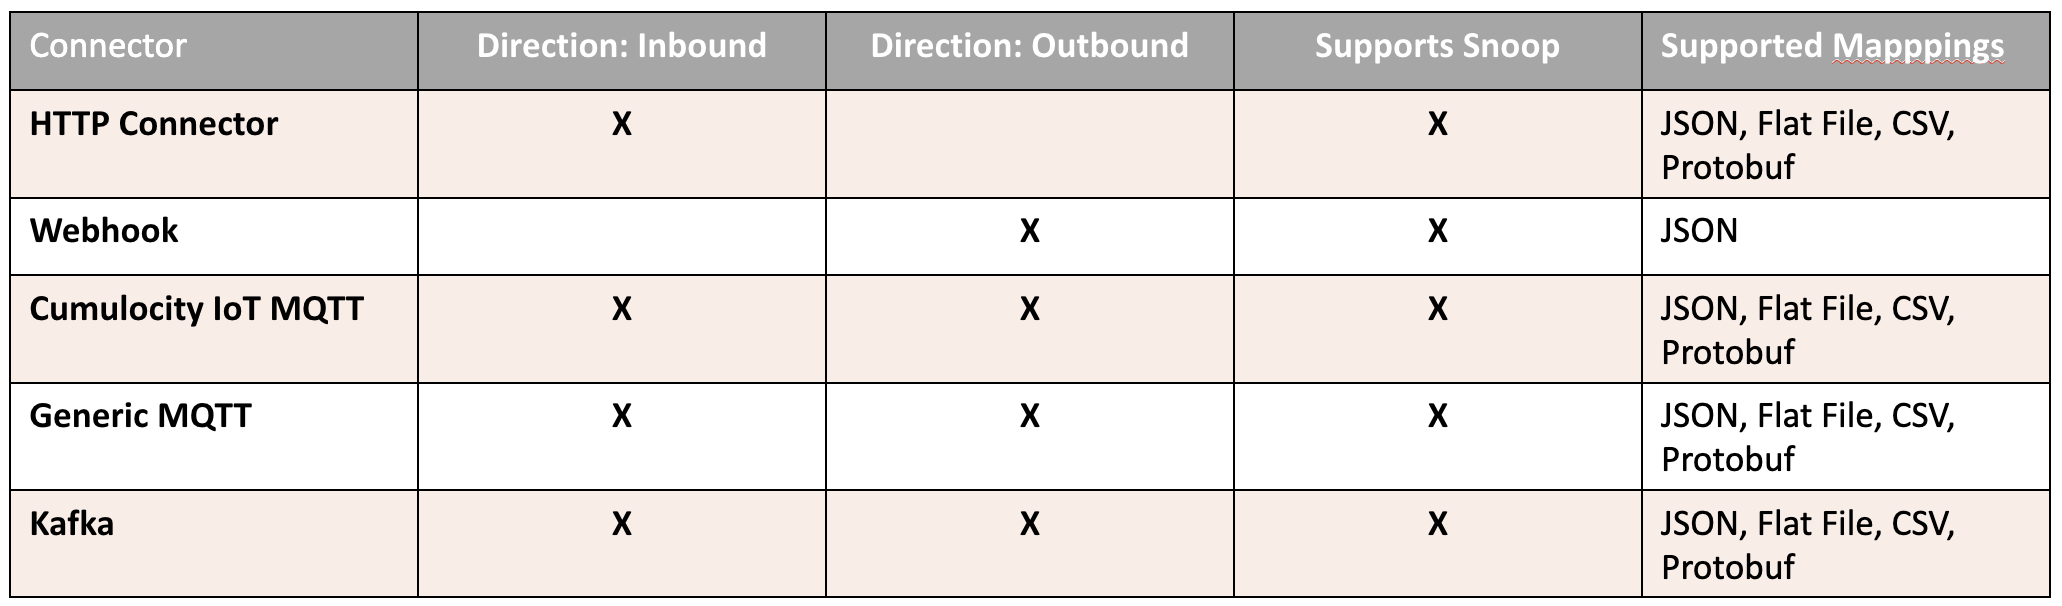
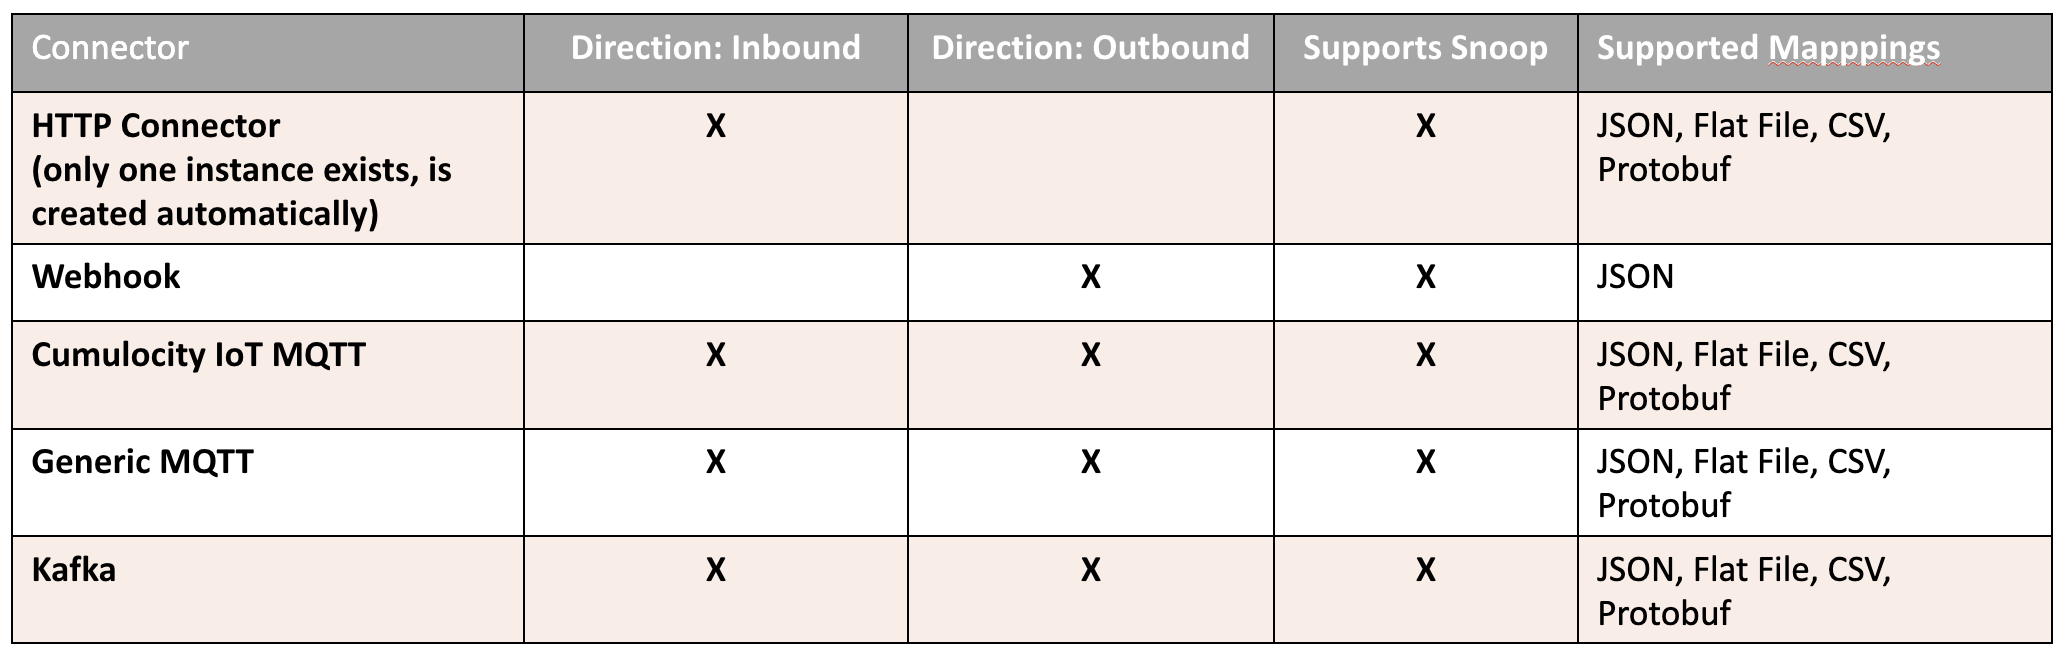
updated userdocs

diff --git a/dynamic-mapping-service/src/main/java/dynamic/mapping/connector/webhook/WebHook.java b/dynamic-mapping-service/src/main/java/dynamic/mapping/connector/webhook/WebHook.java
@@ -90,7 +90,7 @@ public class WebHook extends AConnectorClient {
         configProps.put("baseUrlHealthEndpoint",
                 new ConnectorProperty("health endpoint for GET request", false, 6, ConnectorPropertyType.STRING_PROPERTY, false, false, null, null, null));
         String name = "Webhook";
-        String description = "Webhook to send outbound messages to Rest endpoint as POST in json format. The publishTopic is appended to the Rest endpoint. In case the endpoint does not end with a trailing / and the publishTopic is not start with a / it is automatically added. The health endpoint is tested with a GET request.";
+        String description = "Webhook to send outbound messages to the configured REST endpoint as POST in JSON format. The publishTopic is appended to the Rest endpoint. In case the endpoint does not end with a trailing / and the publishTopic is not start with a / it is automatically added. The health endpoint is tested with a GET request.";
         connectorType = ConnectorType.WEB_HOOK;
         connectorSpecification = new ConnectorSpecification(name, description, connectorType, configProps, false,
                 supportedDirections());

diff --git a/USERGUIDE.md b/USERGUIDE.md
@@ -49,38 +49,46 @@ The table of configured connectors to different brokers can be:
 
 <br/>
 
+The mapper supports the following connectors:
+
+<p align="center">
+<img src="resources/image/ConnectorMatrix.png"  style="width: 70%;" />
+</p>
+<br/>
+
 Furthermore, new connectors can be added. The UI is shown on the following screenshot. In the modal dialog you have to first select the type of connector. Currently we support the following connectors:
 
 - MQTT: supports connections to MQTT version 3.1.1 over websocket and tcp
 - MQTT Service: this connector is a special case of the MQTT connector, to connect to the Cumulocity MQTT Service
 - Kafka: is an initial implementation for connecting to Kafka brokers. It is expected that the implementation of the connector has to be adapted to the specific needs of your project. This applies to configuration for security, transactions, key and payload serialization (currently StringSerializer)...
-- HTTP Connector: he `Default HTTP Connector` is a http endpoint where custom payload can be sent to the mapper over http
+- HTTP Connector: the `HTTP Connector` is a HTTP endpoint where custom payload can be sent to the mapper over HTTP
+- Webhook: the `Webhook` sends outbound messages to the configured REST endpoints as POST in JSON format.
 
 The configuration properties are dynamically adapted to the configuration parameter for the chosen connector type:
 
 <p align="center">
-<img src="resources/image/Dynamic_Mapper_Connector_Edit.png"  style="width: 70%;" />
+<img src="resources/image/Dynamic_Mapper_Connector_Edit.png"  style="width: 50%;" />
 </p>
 <br/>
 
 The settings for the Kafka connector can be seen on the following screenshot:
 
 <p align="center">
-<img src="resources/image/Dynamic_Mapper_Connector_Kafka.png"  style="width: 70%;" />
+<img src="resources/image/Dynamic_Mapper_Connector_Kafka.png"  style="width: 50%;" />
 </p>
 <br/>
 
 The settings for the Default HTTP Connector are as follows
 
 <p align="center">
-<img src="resources/image/Dynamic_Mapper_Connector_Http.png"  style="width: 70%;" />
+<img src="resources/image/Dynamic_Mapper_Connector_Http.png"  style="width: 50%;" />
 </p>
 <br/>
 
 When you add or change a connection configuration it happens very often that the parameter are incorrect and the connection fails. In this case the connection to the MQTT broker cannot be established and the reason is not known. To identify the incorrect parameter you can follows the error messages in the connections logs on the same UI:
 
 <p align="center">
-<img src="resources/image/Dynamic_Mapper_Connector_Details.png"  style="width: 70%;" />
+<img src="resources/image/Dynamic_Mapper_Connector_Details.png"  style="width: 50%;" />
 </p>
 <br/>
 
@@ -138,7 +146,7 @@ Creation of the new mapping starts by pressing `Add Mapping`. On the next modal 
 1. `Extension Source`: if you want to process the message yourself, by registering a processor extension
 
 <p align="center">
-<img src="resources/image/Dynamic_Mapper_Mapping_Table_Add_Modal.png"  style="width: 70%;" />
+<img src="resources/image/Dynamic_Mapper_Mapping_Table_Add_Modal.png"  style="width: 50%;" />
 </p>
 <br/>
 
@@ -340,7 +348,7 @@ Otherwise an extracted array is treated as a single value, see [Different type o
     * `REMOVE_IF_MISSING_OR_NULL`: When the left side of the mapping returns no result (not NULL), then delete the attribute (that is addressed in mapping) in the target on the right side. This avoids empty attribute, e.g. `airsensor: undefined`
 
 <p align="center">
-<img src="resources/image/Dynamic_Mapper_Mapping_Stepper_Edit_Modal.png"  style="width: 70%;" />
+<img src="resources/image/Dynamic_Mapper_Mapping_Stepper_Edit_Modal.png"  style="width: 50%;" />
 </p>
 <br/>
 
@@ -463,7 +471,7 @@ In order to use a previously snooped payload click the button
 `Snooped templates`. Multiples activation of this button iterates over all the recorded templates.
 
 <p align="center">
-<img src="resources/image/Dynamic_Mapper_Mapping_Table_Add_Modal_Snooping.png"  style="width: 70%;" />
+<img src="resources/image/Dynamic_Mapper_Mapping_Table_Add_Modal_Snooping.png"  style="width: 50%;" />
 </p>
 <br/>
 
